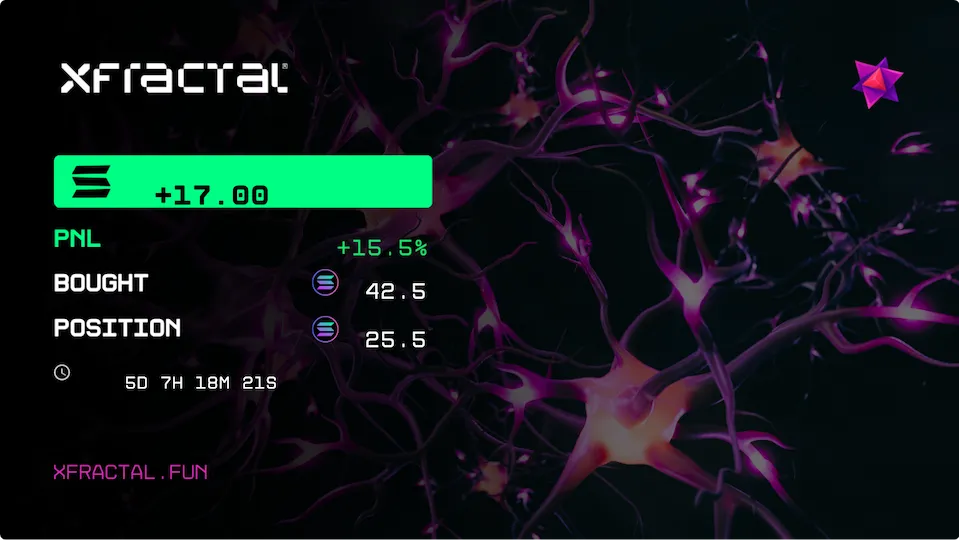
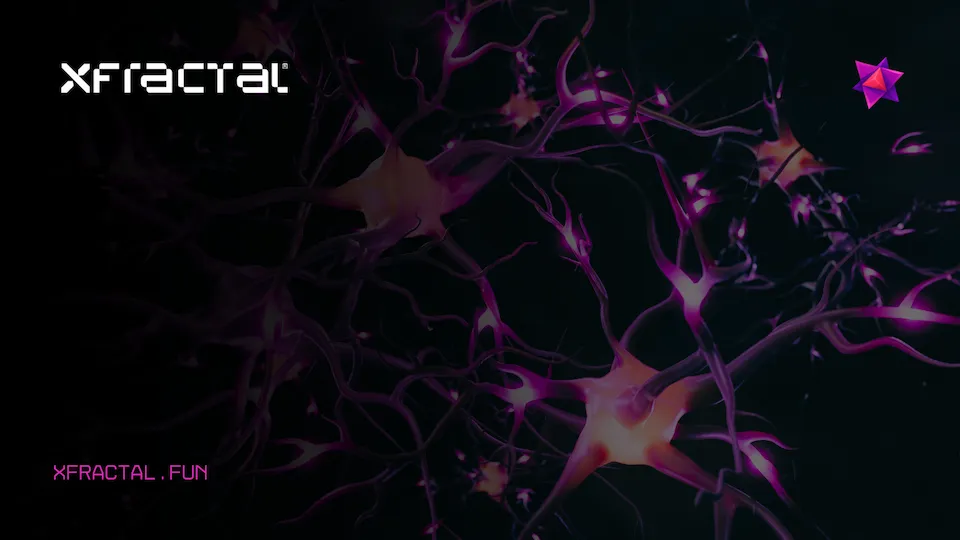
Update DEX configuration and branding

diff --git a/public/config.js b/public/config.js
@@ -3,7 +3,7 @@ window.__RUNTIME_CONFIG__ = {
   "VITE_ORDERLY_BROKER_NAME": "xFractal",
   "VITE_DISABLE_MAINNET": "false",
   "VITE_DISABLE_TESTNET": "true",
-  "VITE_ORDERLY_MAINNET_CHAINS": "42161,10,8453,1,56,900900900",
+  "VITE_ORDERLY_MAINNET_CHAINS": "900900900",
   "VITE_ORDERLY_TESTNET_CHAINS": "421614,84532,97,901901901,11124",
   "VITE_DEFAULT_CHAIN": "900900900",
   "VITE_PRIVY_APP_ID": "cmcmahli0050ql80n1f9wnawb",
@@ -14,24 +14,24 @@ window.__RUNTIME_CONFIG__ = {
   "VITE_DISABLE_SOLANA_WALLETS": "false",
   "VITE_WALLETCONNECT_PROJECT_ID": "",
   "VITE_APP_NAME": "xFractal",
-  "VITE_APP_DESCRIPTION": "Orderly Trading Application",
+  "VITE_APP_DESCRIPTION": "Solana Dex for degens",
   "VITE_HAS_PRIMARY_LOGO": "true",
   "VITE_HAS_SECONDARY_LOGO": "true",
-  "VITE_ENABLED_MENUS": "Trading,Markets,Portfolio,Rewards,Leaderboard",
+  "VITE_ENABLED_MENUS": "Trading,Markets,Vaults,Portfolio,Leaderboard,Rewards",
   "VITE_CUSTOM_MENUS": "",
   "VITE_ENABLE_CAMPAIGNS": "false",
   "VITE_TELEGRAM_URL": "https://t.me/xFractalDotFunChannel",
   "VITE_DISCORD_URL": "",
   "VITE_TWITTER_URL": "https://x.com/xFractalDotFun",
-  "VITE_SEO_SITE_NAME": "",
-  "VITE_SEO_SITE_DESCRIPTION": "",
+  "VITE_SEO_SITE_NAME": "xFractal",
+  "VITE_SEO_SITE_DESCRIPTION": "Solana Dex for degens",
   "VITE_SEO_SITE_URL": "https://dex.xfractal.fun",
   "VITE_SEO_SITE_LANGUAGE": "en",
   "VITE_SEO_SITE_LOCALE": "en_US",
   "VITE_SEO_TWITTER_HANDLE": "@xfractaldotfun",
   "VITE_SEO_THEME_COLOR": "#23091f",
   "VITE_SEO_KEYWORDS": "",
-  "VITE_AVAILABLE_LANGUAGES": "en,es,zh,de,fr,it",
+  "VITE_AVAILABLE_LANGUAGES": "en,es,zh,de",
   "VITE_USE_CUSTOM_PNL_POSTERS": "true",
   "VITE_CUSTOM_PNL_POSTER_COUNT": "1",
   "VITE_TRADING_VIEW_COLOR_CONFIG": "{\"upColor\":\"#00C896\",\"downColor\":\"#f727e4\",\"pnlUpColor\":\"#00C896\",\"pnlDownColor\":\"#f723d6\",\"chartBG\":\"#131722\"}"
